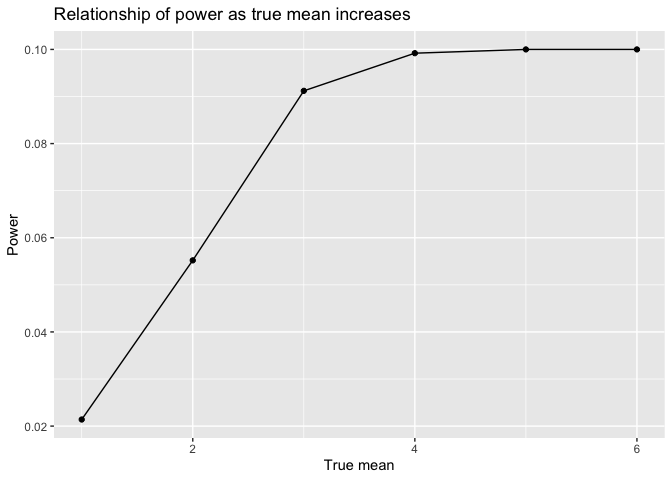
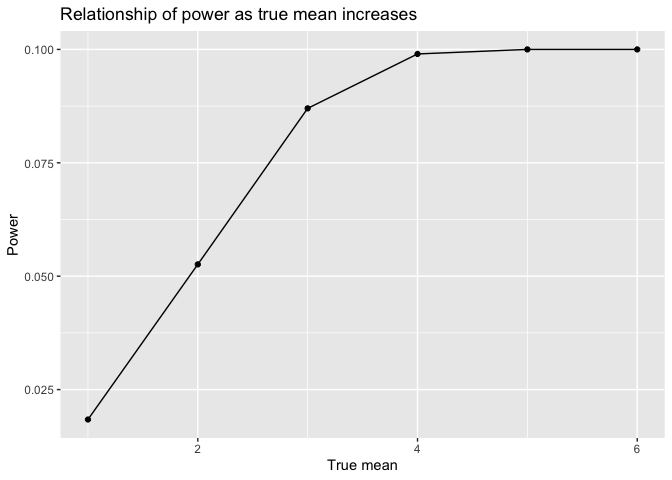
Plot #2 and #3 finalized, edited text for clarity

diff --git a/p8105_hw5_lvr2115.md b/p8105_hw5_lvr2115.md
@@ -30,12 +30,12 @@ Simulation: mu {1 thru 6}
     ## # A tibble: 6 × 4
     ##   mean_size iteration estimate p.value
     ##       <int>     <int>    <dbl>   <dbl>
-    ## 1         1         1     1.77  0.0101
-    ## 2         1         2     1.42  0.139 
-    ## 3         1         3     1.10  0.232 
-    ## 4         1         4     1.20  0.307 
-    ## 5         1         5     1.19  0.333 
-    ## 6         1         6     1.61  0.0407
+    ## 1         1         1    2.01   0.0638
+    ## 2         1         2    0.888  0.359 
+    ## 3         1         3    1.61   0.0319
+    ## 4         1         4    1.99   0.0231
+    ## 5         1         5    0.626  0.514 
+    ## 6         1         6    1.83   0.0764
 
 # Power plot
 
@@ -48,25 +48,16 @@ flattens out as it approaches 1.
 
 ![](p8105_hw5_lvr2115_files/figure-gfm/unnamed-chunk-4-1.png)<!-- -->
 
-Make a plot showing the average estimate of means on the y axis and the
-true value of μ on the x axis.
+This plot shows the average estimate of μ on the y-axis and the true
+value of μ on the x-axis.
 
 ![](p8105_hw5_lvr2115_files/figure-gfm/unnamed-chunk-5-1.png)<!-- -->
 
-    ## $x
-    ## [1] "True Mean"
-    ## 
-    ## $y
-    ## [1] "Average Estimate Mean"
-    ## 
-    ## $title
-    ## [1] "Estimated Means"
-    ## 
-    ## attr(,"class")
-    ## [1] "labels"
+This plot shows the average estimate of μ *only in samples for which the
+null was rejected* on the y-axis and the true value of μ on the x-axis.
+![](p8105_hw5_lvr2115_files/figure-gfm/unnamed-chunk-6-1.png)<!-- -->
 
-Make a second plot (or overlay on the first) the average estimate of μ̂
-only in samples for which the null was rejected on the y axis and the
-true value of μ on the x axis. Is the sample average of μ̂ across tests
-for which the null is rejected approximately equal to the true value of
-μ? Why or why not?
+The sample average of mu across tests for which the null is rejected is
+approximately equal to the true value of mu when true mu equals 4, 5 and
+6. However, when mu equals 1,2,3 , sample average and true mu are
+visibly not equal.
